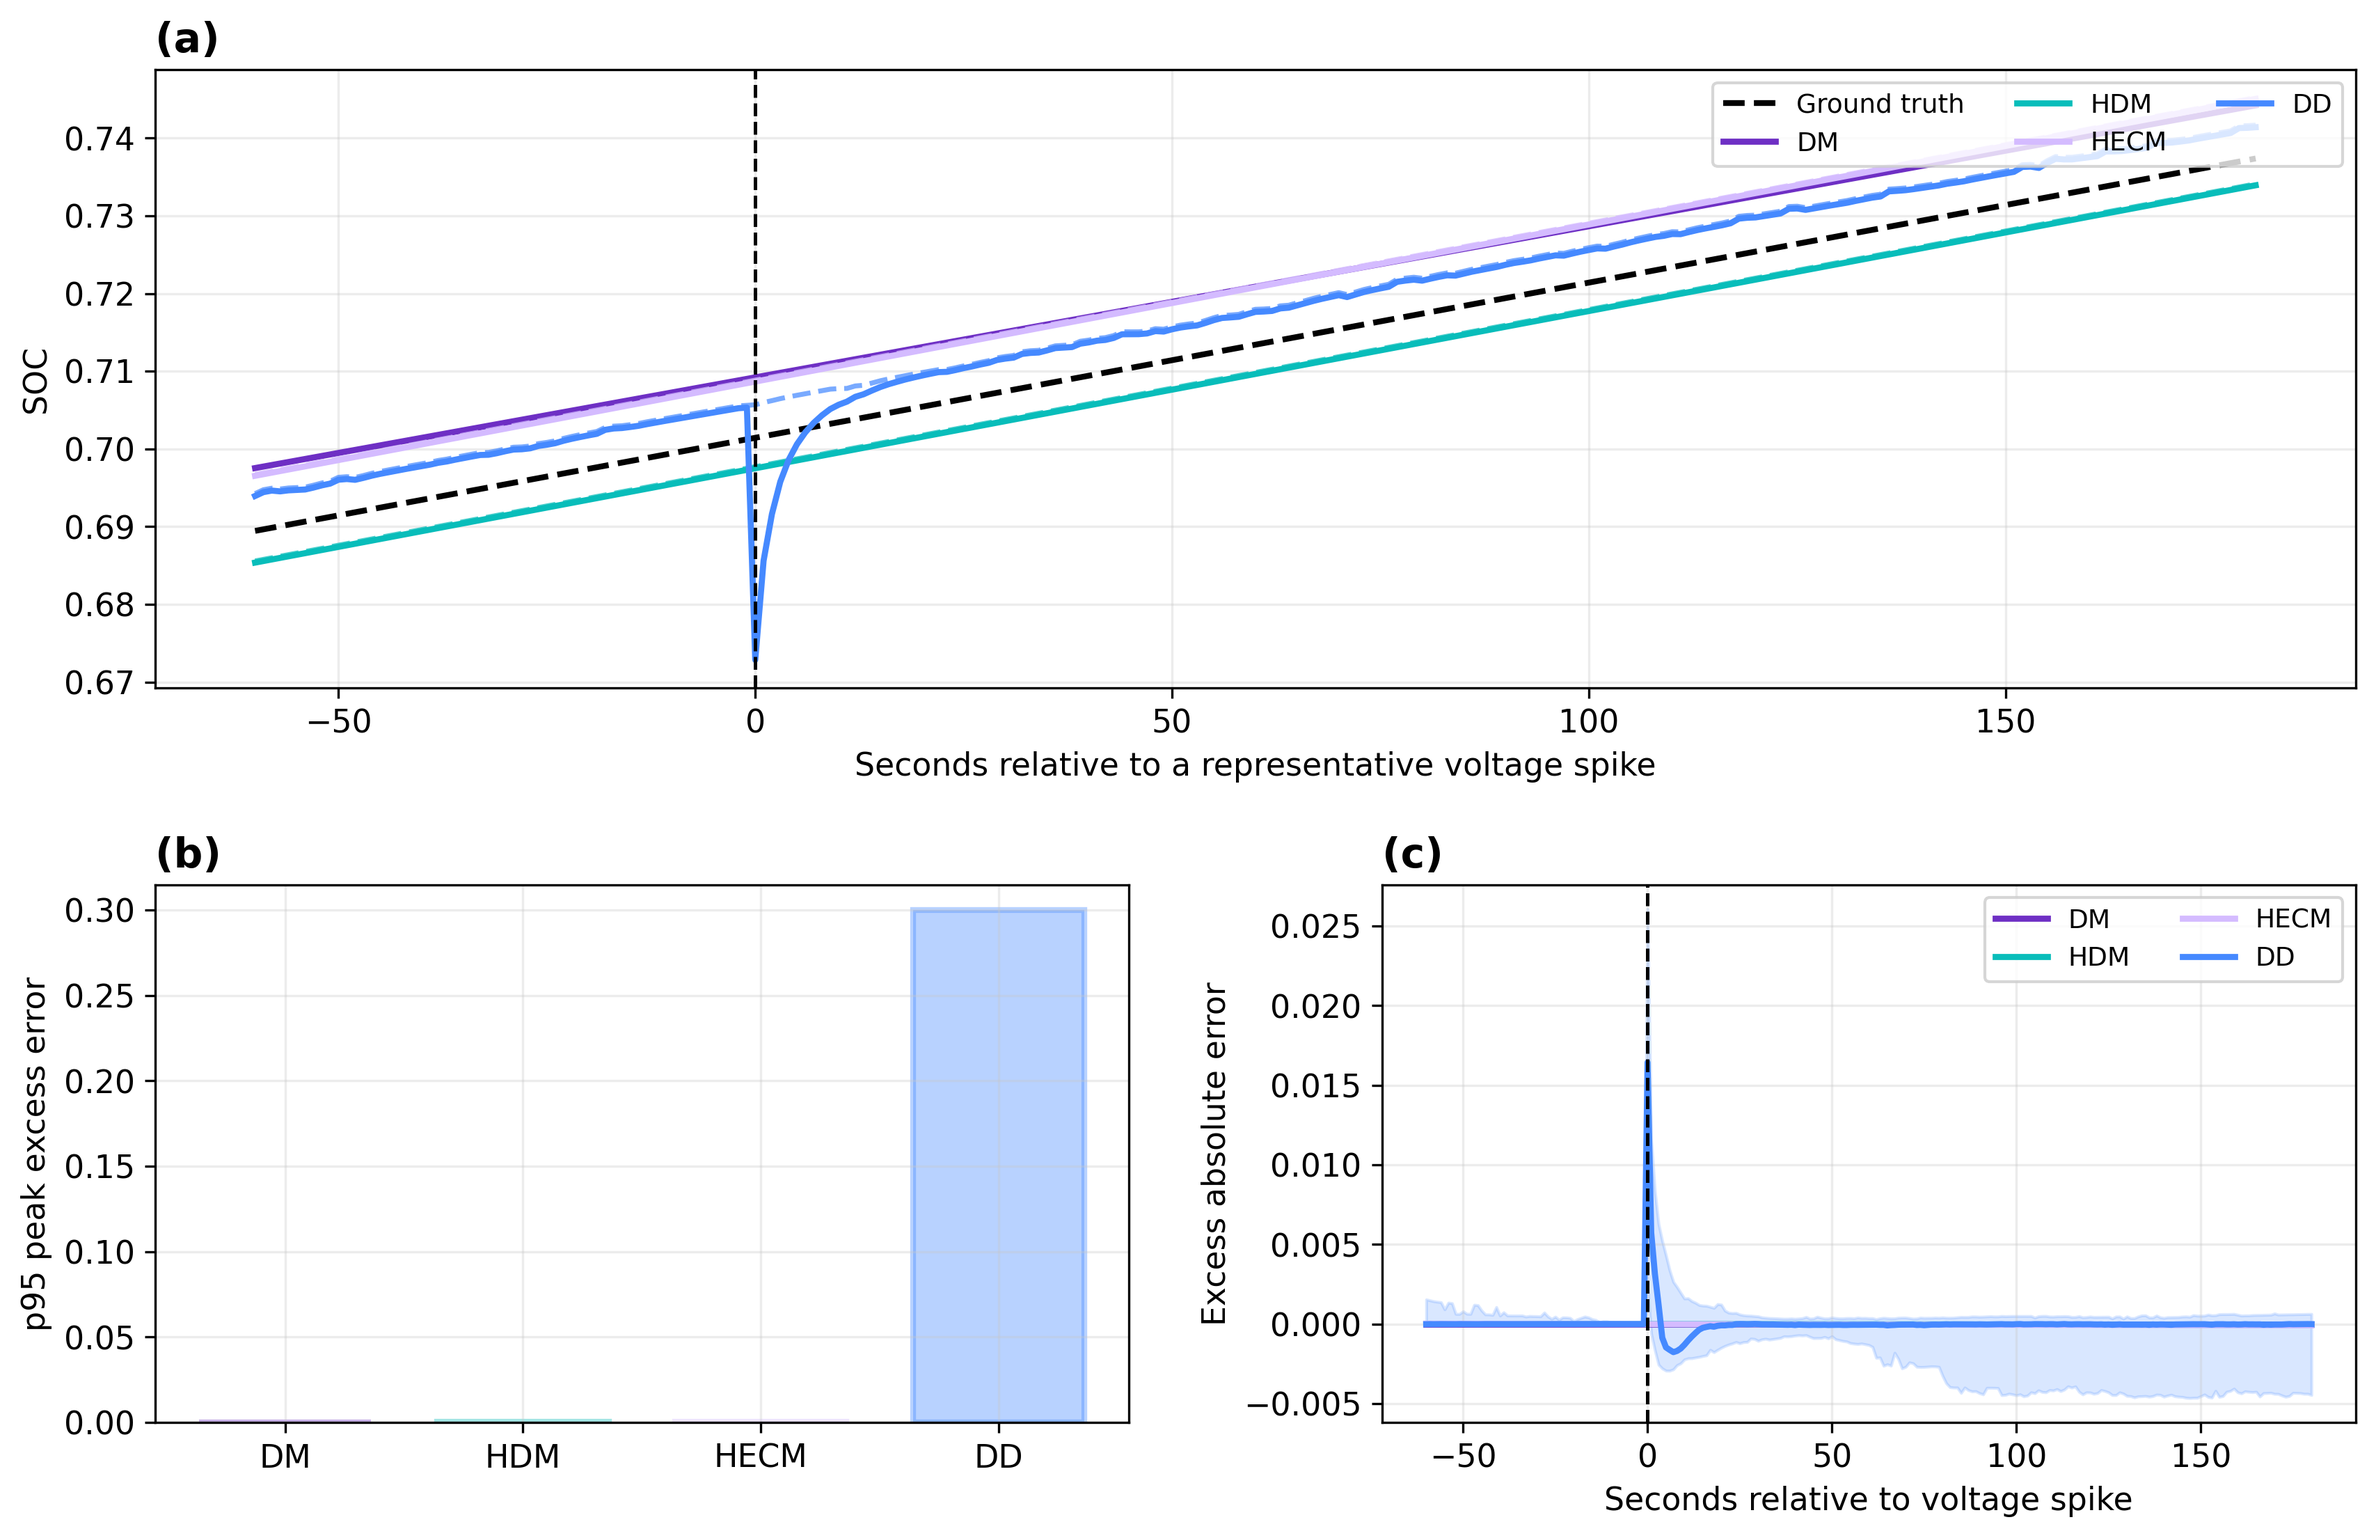
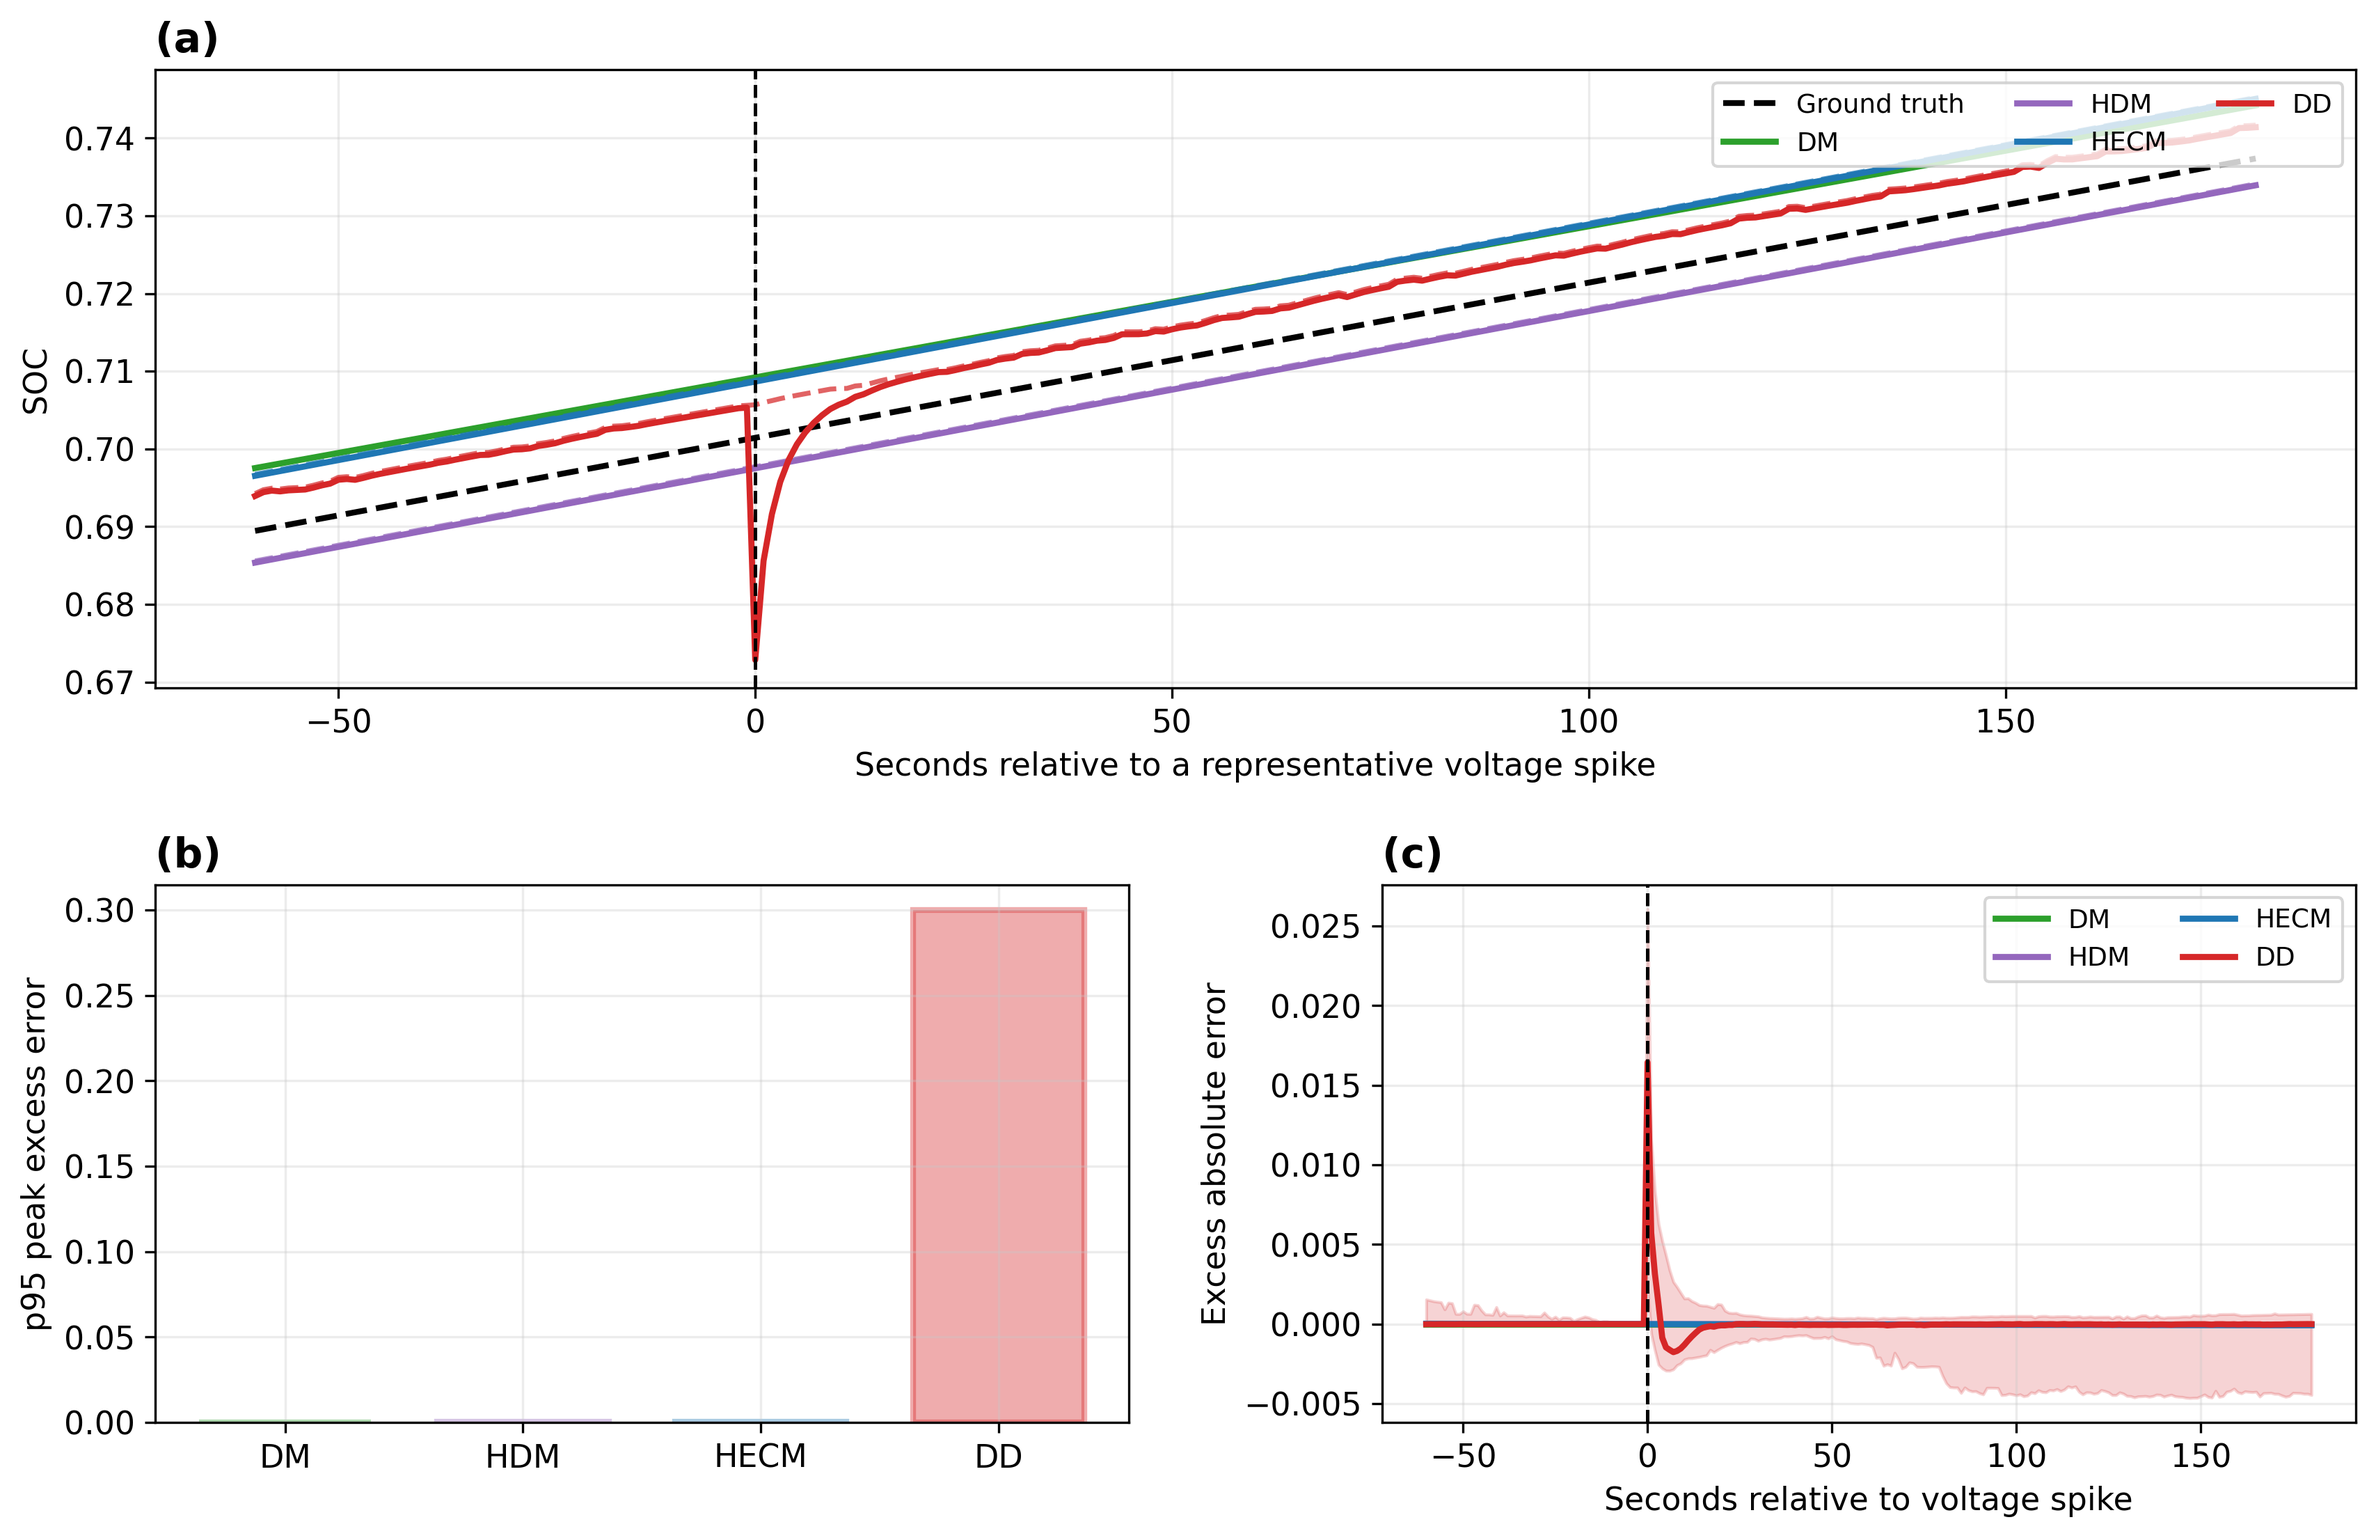
Align Figure 11c with dissertation palette

diff --git a/LATEX/JES/paper_robustness_benchmark/figures/build_figure_11_jes2_matched.py b/LATEX/JES/paper_robustness_benchmark/figures/build_figure_11_jes2_matched.py
@@ -23,7 +23,9 @@ TRAJECTORIES = (
 )
 OUTPUT = Path(__file__).resolve().parent / "Results/Figure_11c_Voltage_Spike_Response_JES2.png"
 MODEL_ORDER = ["DM", "HDM", "HECM", "DD"]
-COLORS = {"DM": "#6e2fc4", "HDM": "#08bdba", "HECM": "#d4bbff", "DD": "#4589ff"}
+# Match the established dissertation/JES robustness palette used throughout
+# the All Cells collection: green DM, purple HDM, blue HECM, and red DD.
+COLORS = {"DM": "#2ca02c", "HDM": "#9467bd", "HECM": "#1f77b4", "DD": "#d62728"}
 REPRESENTATIVE_HECM_INDEX = 22000
 RELATIVE_SECONDS = np.arange(-60, 181)
 
